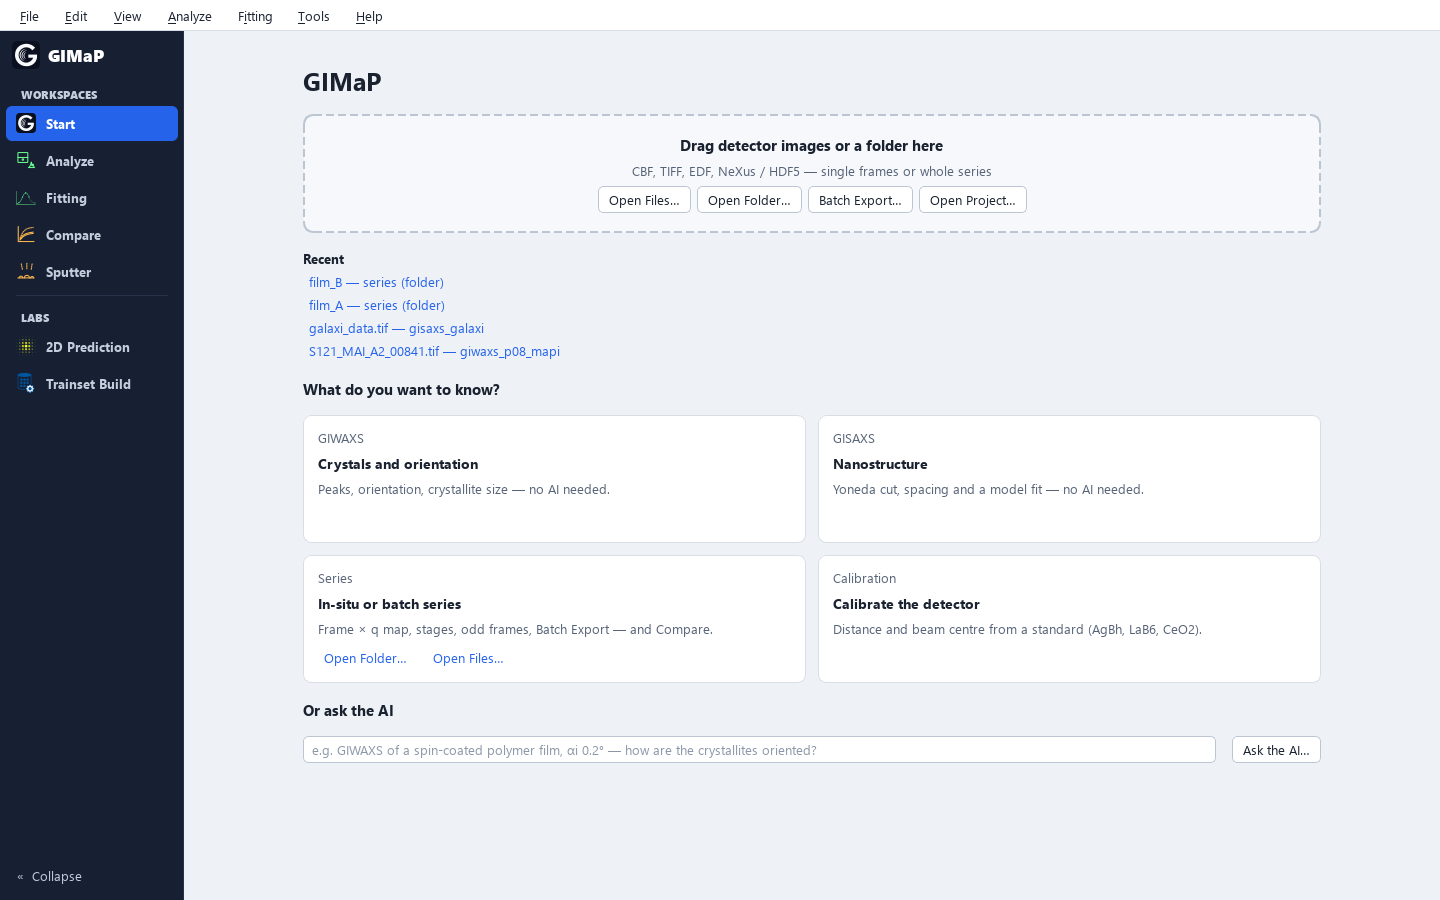
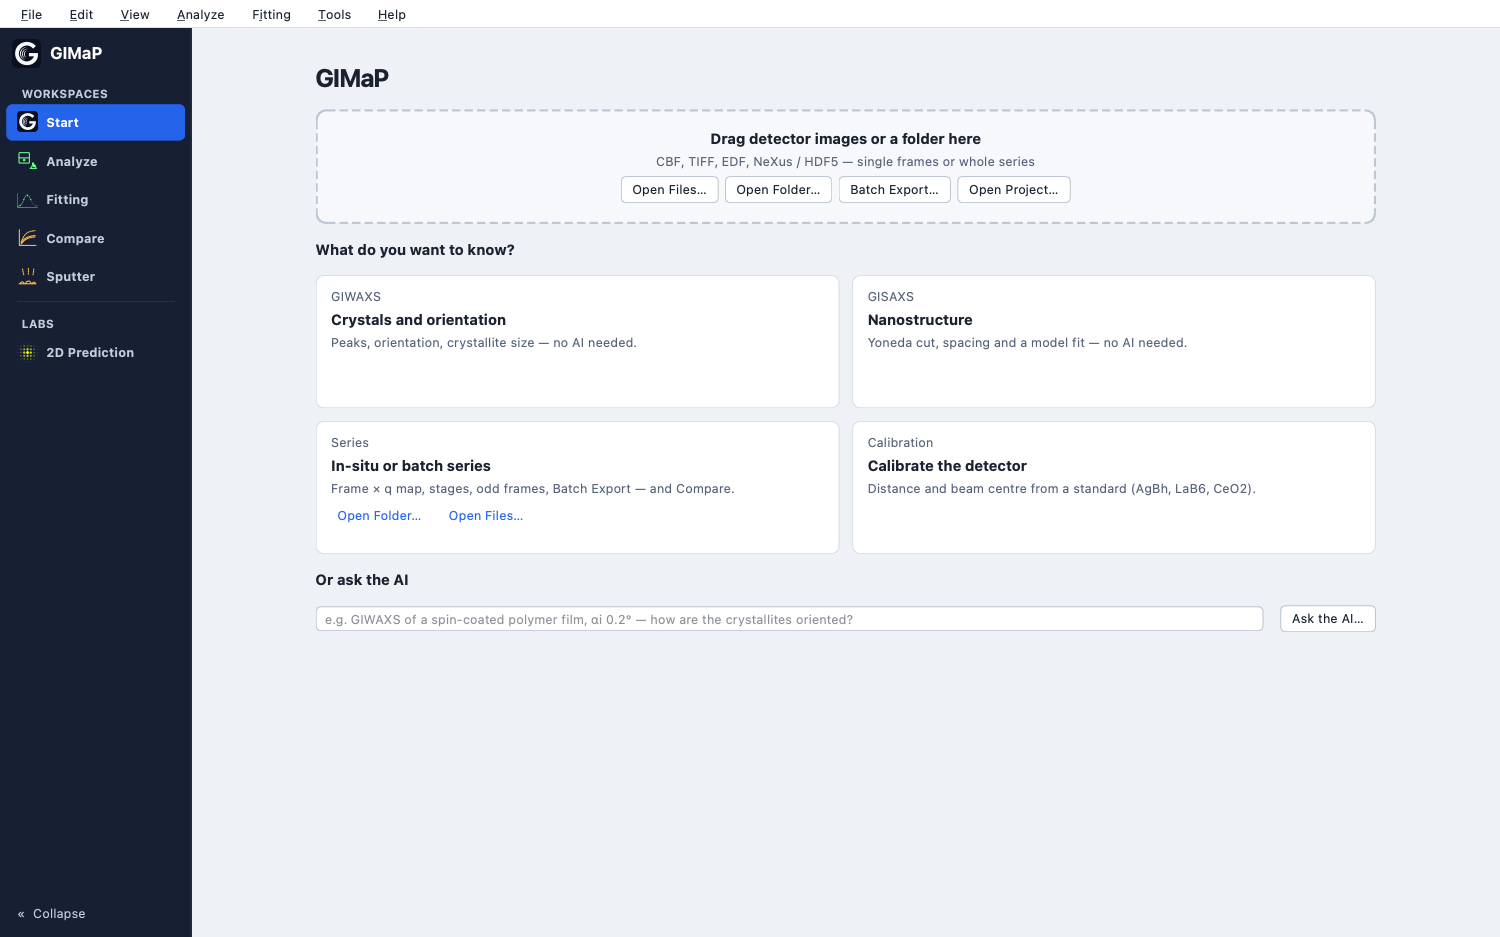
Validate portable Mac runtime and refresh release manuals

diff --git a/tests/test_release_readiness.py b/tests/test_release_readiness.py
@@ -94,3 +94,30 @@ def test_model_manifest_fingerprint_changes_with_the_selected_bundle(tmp_path):
     manifest.write_text('{"files": {"model": "b"}}')
     assert model_provenance('v5', tmp_path)['manifest_sha256'] != first['manifest_sha256']
     assert first['folder'] == str(tmp_path)
+
+
+def test_old_scan_inspection_cannot_overwrite_a_new_project(tmp_path, monkeypatch):
+    from threading import Event
+    from tests.test_project import _window
+    from src.gimap.features.sputter.application import ScanInfo
+    window = _window()
+    page = window.components.sputter_page
+    finished = Event()
+
+    def inspect(folder):
+        assert finished.wait(5)
+        return ScanInfo(folder, frames=4, energy_kev_hint=9.5)
+
+    monkeypatch.setattr(page.service, 'inspect', inspect)
+    try:
+        page.set_scan_folder(tmp_path)
+        page.apply_project_state({})
+        finished.set()
+        assert page.tasks.wait(5)
+        assert page.scan_picker.path() == ''
+        assert page.scan_info is None
+        assert not page._inspecting
+    finally:
+        finished.set()
+        page.tasks.wait(5)
+        window.close()

diff --git a/tools/build_macos_release.py b/tools/build_macos_release.py
@@ -51,6 +51,15 @@ def build(prefix: Path, output: Path) -> Path:
     if not (prefix / 'conda-meta').is_dir():
         raise ValueError('Use a dedicated Conda release environment.')
     subprocess.run(['git', '-C', str(ROOT), 'diff', '--exit-code', 'HEAD', '--'], check=True)
+    actual_arch = subprocess.check_output([str(prefix / 'bin/python'), '-c',
+                                           'import platform; print(platform.machine())'], text=True).strip()
+    if actual_arch != arch:
+        raise ValueError(f'Release environment architecture {actual_arch} does not match builder {arch}')
+    # In a fresh process: catch incompatible native wheels before producing a package.
+    subprocess.run([str(prefix / 'bin/python'), '-c',
+                    'import numpy, scipy.signal, scipy.sparse.linalg, h5py, cv2, matplotlib; '
+                    'from PyQt5 import QtCore; import tensorflow; print("Release runtime imports passed")'], check=True)
+
     from src.gimap.shared.version import __version__
     names, kit_manifest = source_files(ROOT)
     output.mkdir(parents=True, exist_ok=True)

diff --git a/docs/Physics_Manual.md b/docs/Physics_Manual.md
@@ -307,7 +307,7 @@ Implementation: `src/gimap/features/analyze/application/geometry_resolution.py`,
 
 ### 1.5 Exception: Trainset's legacy convention
 
-Trainset (Labs ▸ Trainset Build) keeps the convention with which its training data were generated. Its detector grid is
+The retired Trainset research code keeps the convention with which its training data were generated. It is not an application workspace. Its detector grid is
 
 ```text
 X_j = (j − x_c,index) · p_x,      Y_i = (y_c,index − i) · p_y          (1.6)
@@ -3498,6 +3498,8 @@ Where an algorithm draws random numbers, the seed is fixed, so the same input an
 
 StarDist inference and the 2D Prediction networks draw no random numbers in GIMaP. The seeds are part of the code
 or of the saved settings. Research run records state their seed policy; not every runtime exposes a controllable seed.
+
+The 1D Predict request and summary also record the SHA-256 of the selected model manifest. This is a fingerprint of the declared bundle, not a per-run check of every model file. Requests preserve normalized options and explicitly identify the runtime-default random-seed policy; no fixed run seed is claimed.
 
 ### 14.9 What the records do not yet contain
 

diff --git a/docs/Physics_Manual_zh.md b/docs/Physics_Manual_zh.md
@@ -307,7 +307,7 @@ x_canonical = x_index + 0.5,      y_canonical = y_index + 0.5        (1.5)
 
 ### 1.5 例外：训练集构建的旧约定
 
-训练集构建（实验室 ▸ 训练集构建，Labs ▸ Trainset Build）保留生成其训练数据时的约定。它的探测器网格是
+已移除界面入口的训练集研究代码保留生成其训练数据时的约定，它不再是应用工作区。它的探测器网格是
 
 ```text
 X_j = (j − x_c,index) · p_x,      Y_i = (y_c,index − i) · p_y          (1.6)
@@ -2994,6 +2994,8 @@ SHA-256 摘要标识内容重要的文件：
 | 运行自动分析，Hermans 取向因子 | 0（默认） | f 的蒙特卡罗误差 |
 
 在 GIMaP 中，StarDist 推断和二维预测的网络不抽取随机数。种子是代码或已保存设置的一部分。研究运行记录写明种子策略；并非所有运行时都提供可控种子。
+
+一维预测的请求和摘要还记录所选模型清单的 SHA-256。它标识声明的工具包，不表示每次运行都重新校验了每个模型文件。请求保留归一化选项，并明确记录运行时默认的随机种子策略；不声称固定了本次随机种子。
 
 ### 14.9 记录中还缺少什么
 

diff --git a/docs/releasing.md b/docs/releasing.md
@@ -261,7 +261,10 @@ macOS 15 Intel. Every required job must pass on the commit being published. A sk
 test is not evidence that the runtime works; record such coverage separately. Never call an untested
 architecture supported merely because the source imports there.
 
-Use Python 3.10 and `requirements-release.txt` in a clean Conda environment. Keep the complete
+Use Python 3.10 and `requirements-release.txt` in a clean Conda environment. It selects official OpenBLAS
+SciPy wheels on macOS: the macOS 14 Accelerate wheel can fail to load on macOS 27
+([SciPy issue #25635](https://github.com/scipy/scipy/issues/25635)). Do not substitute a different wheel merely
+because its version number matches. The macOS builder checks native imports and processor architecture first. Keep the complete
 `pip freeze` and `conda list --explicit` output with each package; direct pins alone do not lock
 transitive dependencies. Build only tracked source plus the verified runtime manifests. Trainset Build
 is excluded from both platform packages; local research files and personal settings are never bundled.

diff --git a/docs/User_Manual.md b/docs/User_Manual.md
@@ -411,6 +411,8 @@ trust; do not disable system protection. Target systems are macOS 15 or later an
 page lists the exact systems and architectures verified for each package. A source checkout running on a
 developer's computer does not replace package acceptance testing.
 
+For source installations on a Mac, use Python 3.10 and `python -m pip install -r requirements-release.txt`. It selects the compatible official SciPy build; version numbers alone do not identify the binary build.
+
 ## 3. The window
 
 ### 3.1 The parts of the window

diff --git a/THIRD_PARTY_NOTICES.md b/THIRD_PARTY_NOTICES.md
@@ -7,7 +7,7 @@ Last checked: 2026-11-01.
 ## 1. GIMaP itself
 
 - GIMaP's own code and documentation are released under the **MIT License**: see [LICENSE](LICENSE)
-  (Copyright (c) 2025–2026 Yufeng Zhai and DESY).
+  (Copyright (c) 2025–2026 Yufeng Zhai).
 - The MIT License covers the files of this repository except those named in sections 2 and 5, and except
   the frame content in the manual screenshots described at the end of section 2. These keep the licences
   and terms given there.
